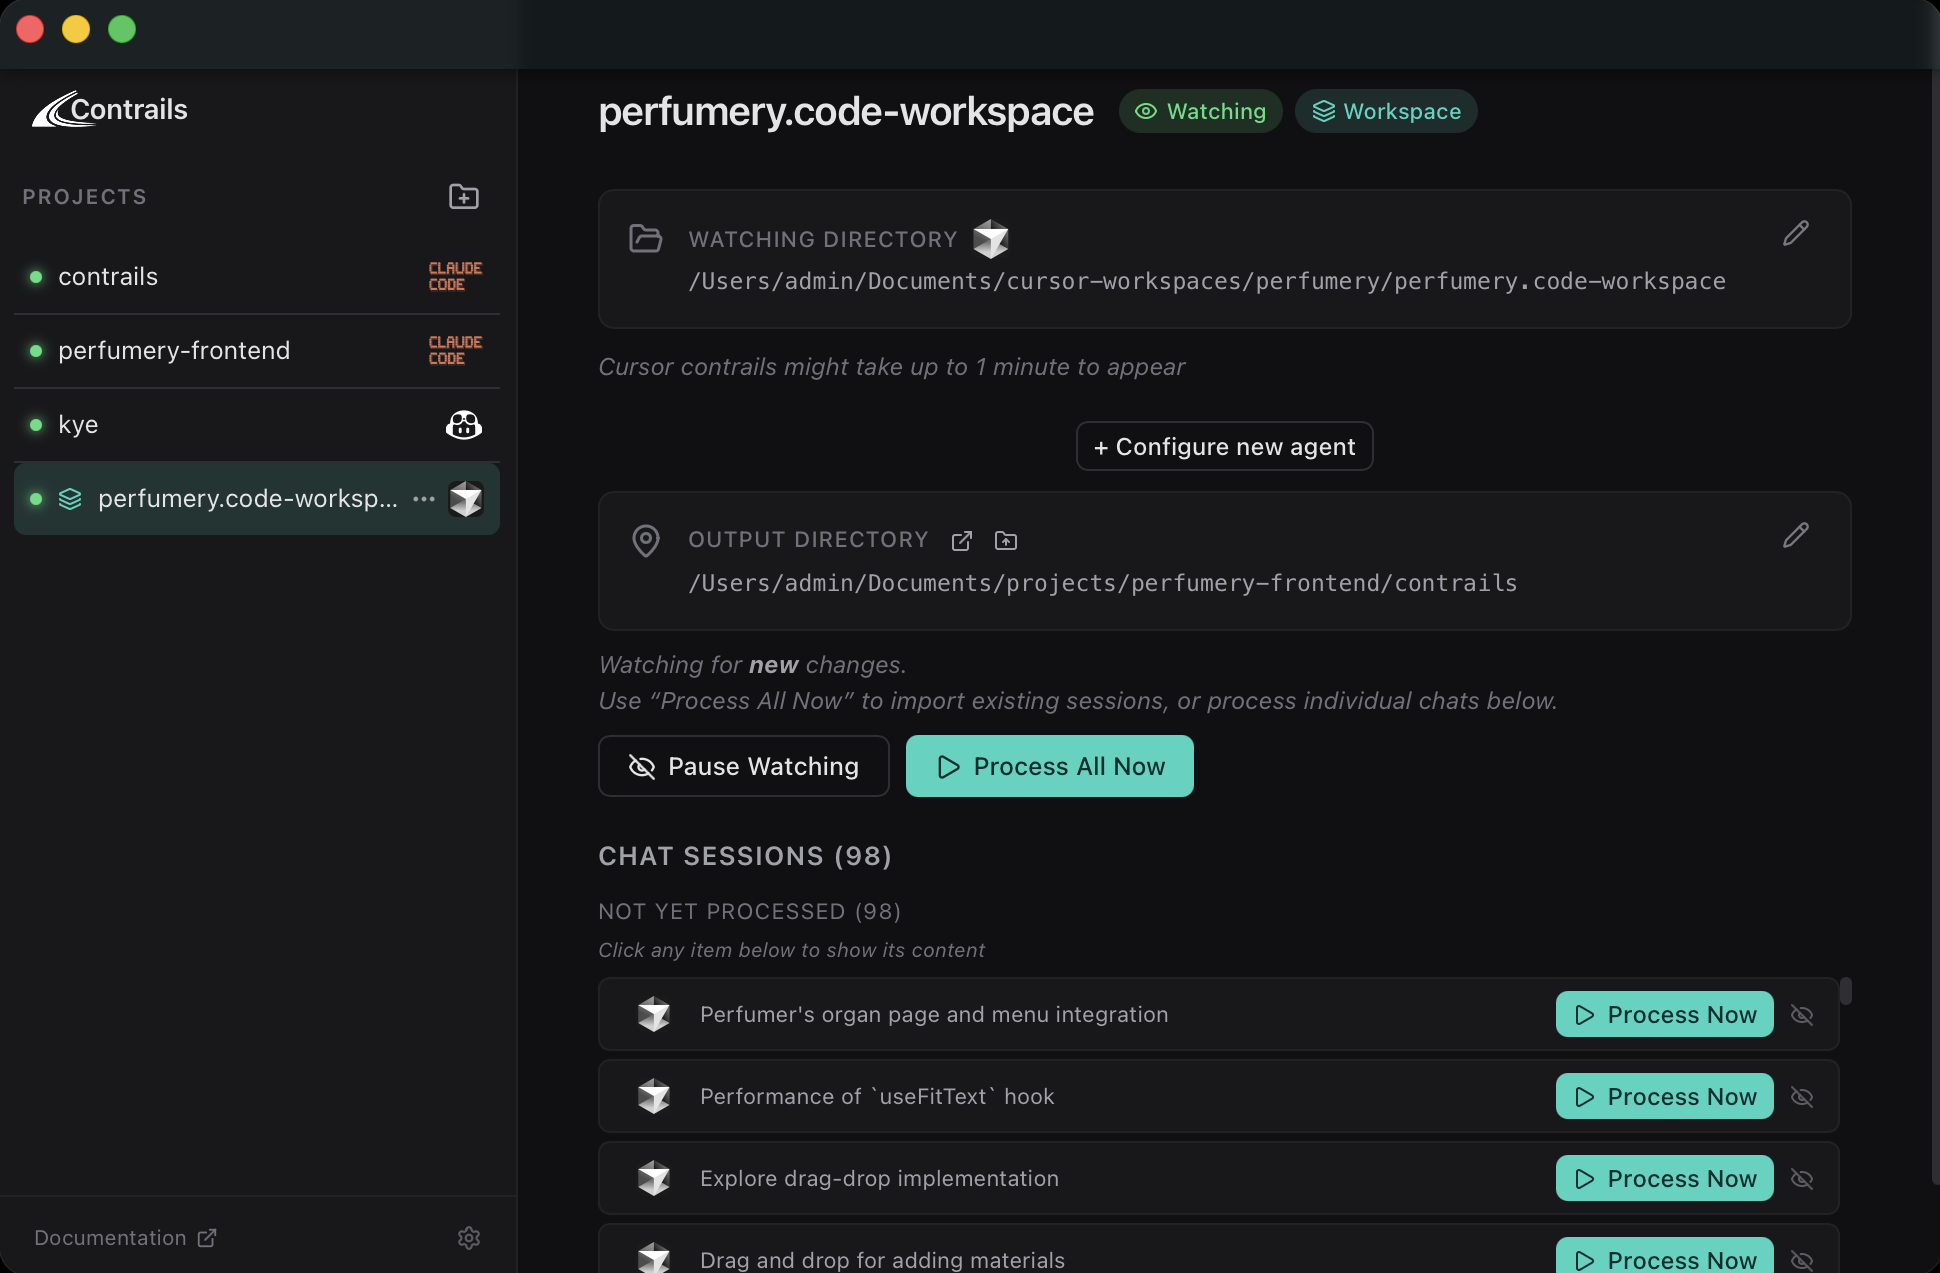
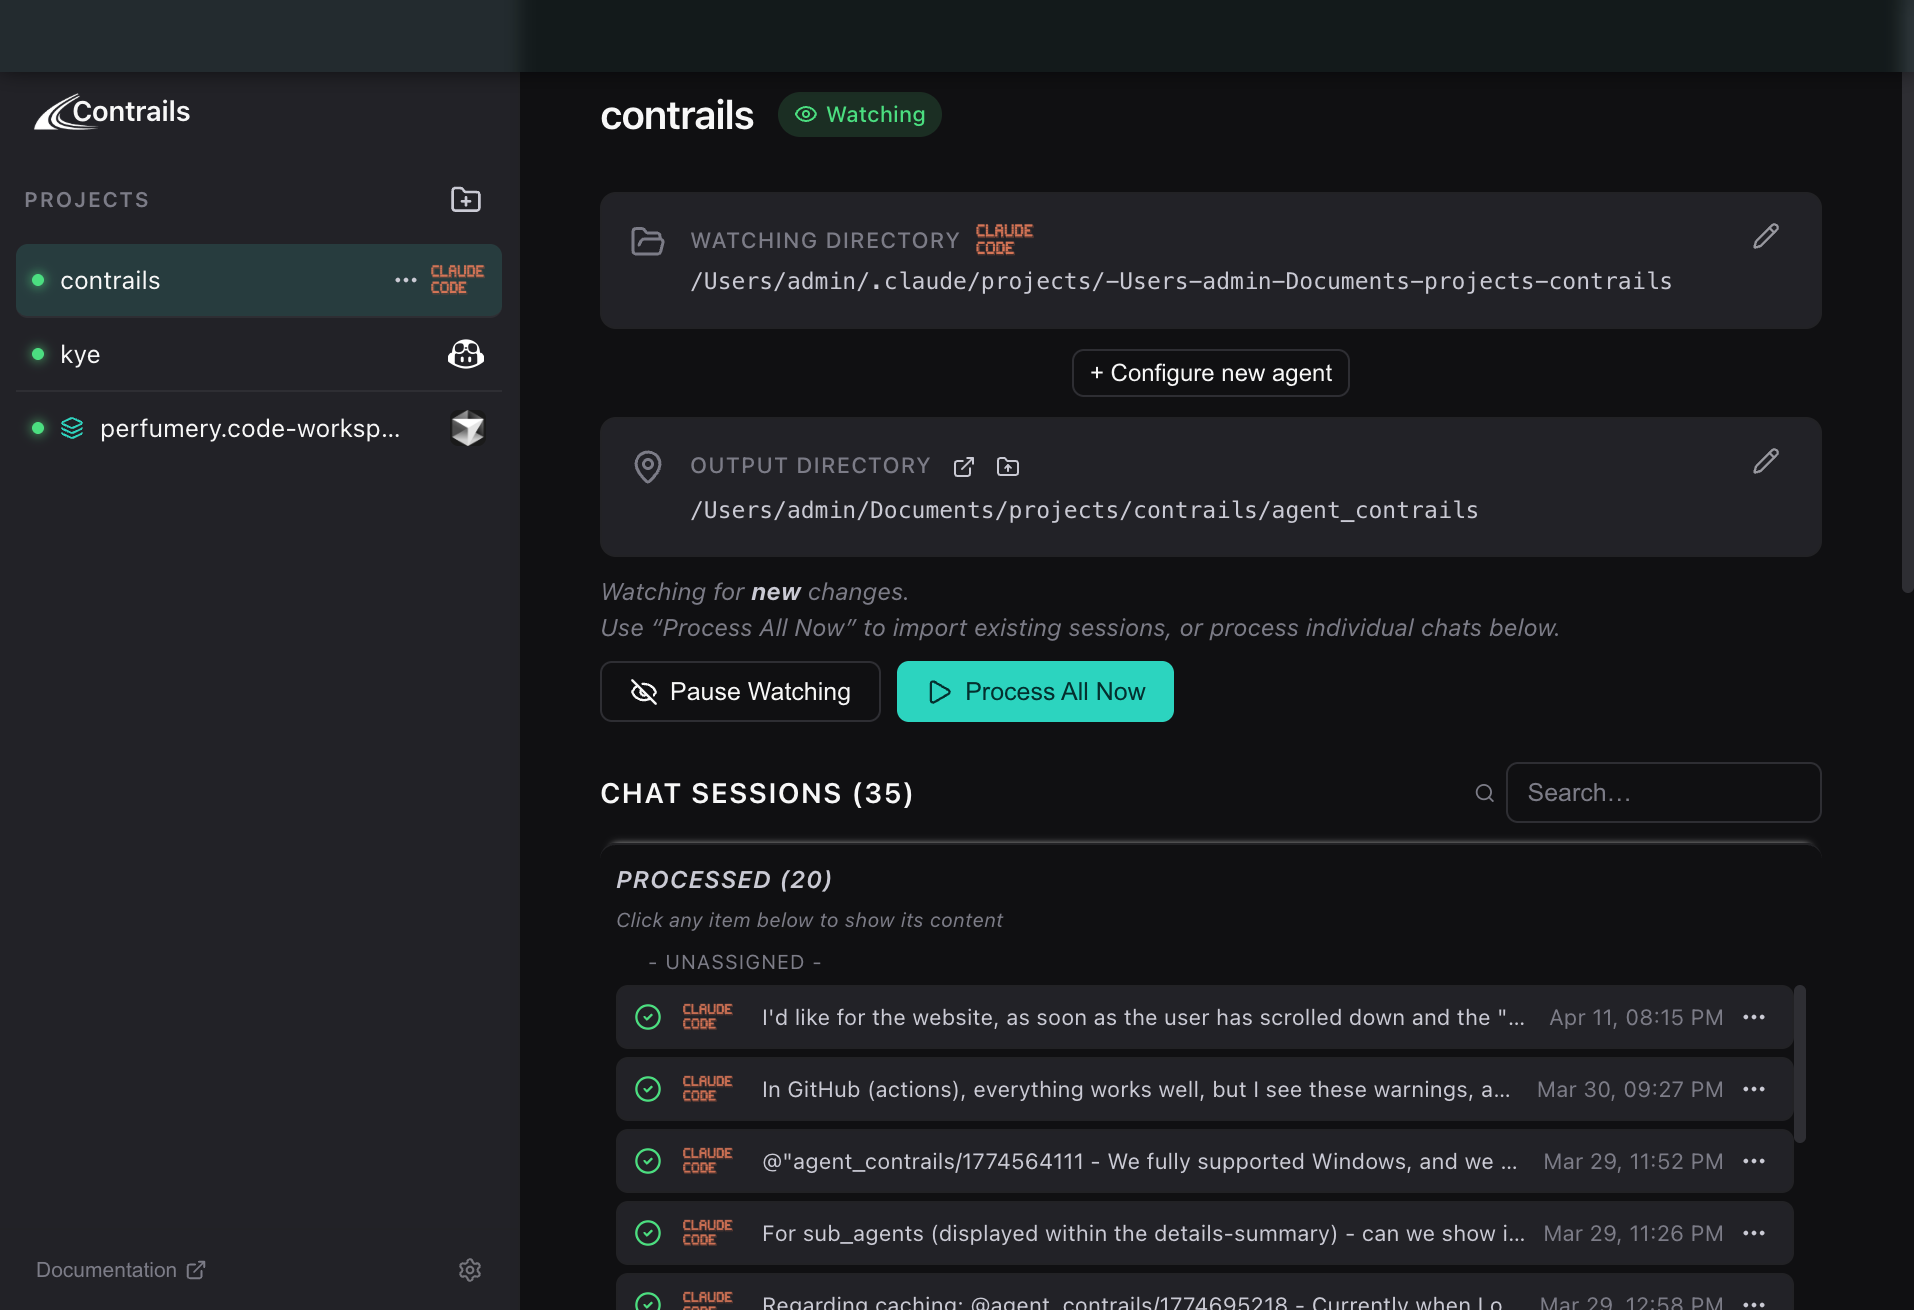
update README image

diff --git a/frontend/src/App.tsx b/frontend/src/App.tsx
@@ -207,7 +207,7 @@ function App() {
               <ContrailsIcon style={{ width: '88px' }} />
               <h2>Contrails</h2>
             </div>
-            <p>Select a project or add a new one to get started.</p>
+            <p>Add a new project to get started.</p>
             <button
               className="btn btn-primary"
               onClick={() => setShowAddDialog(true)}
